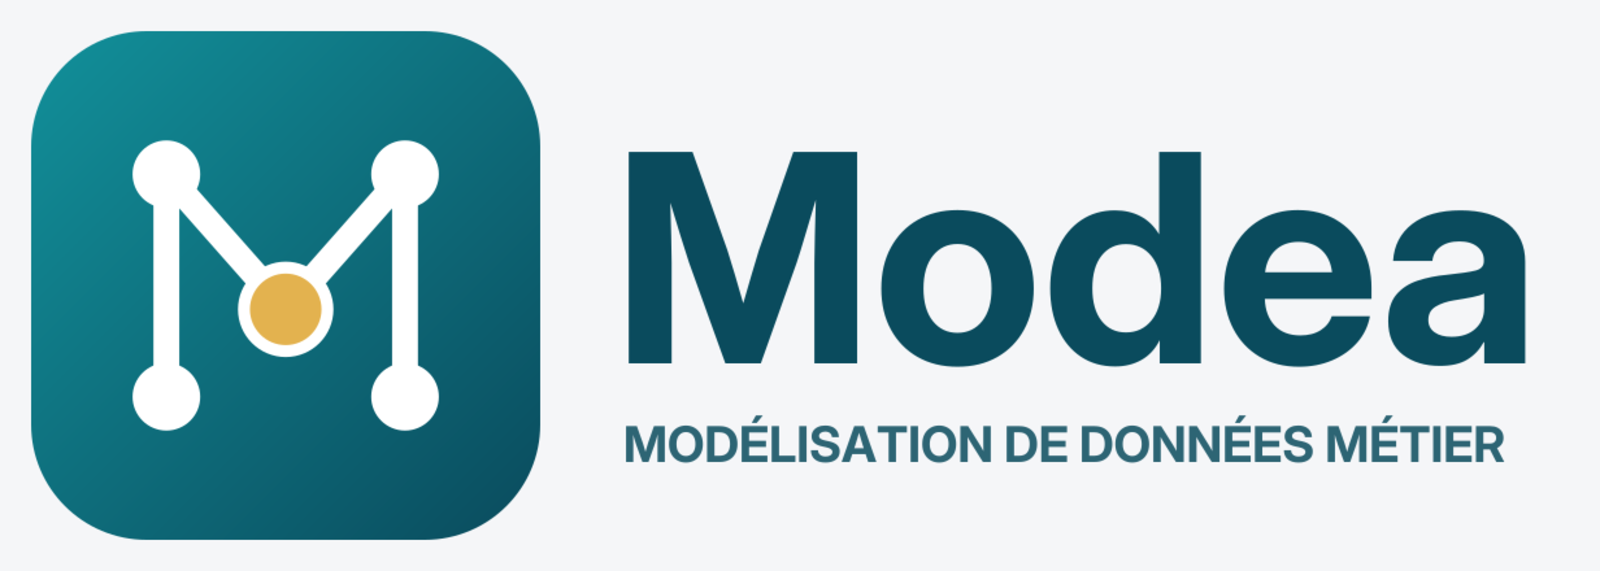
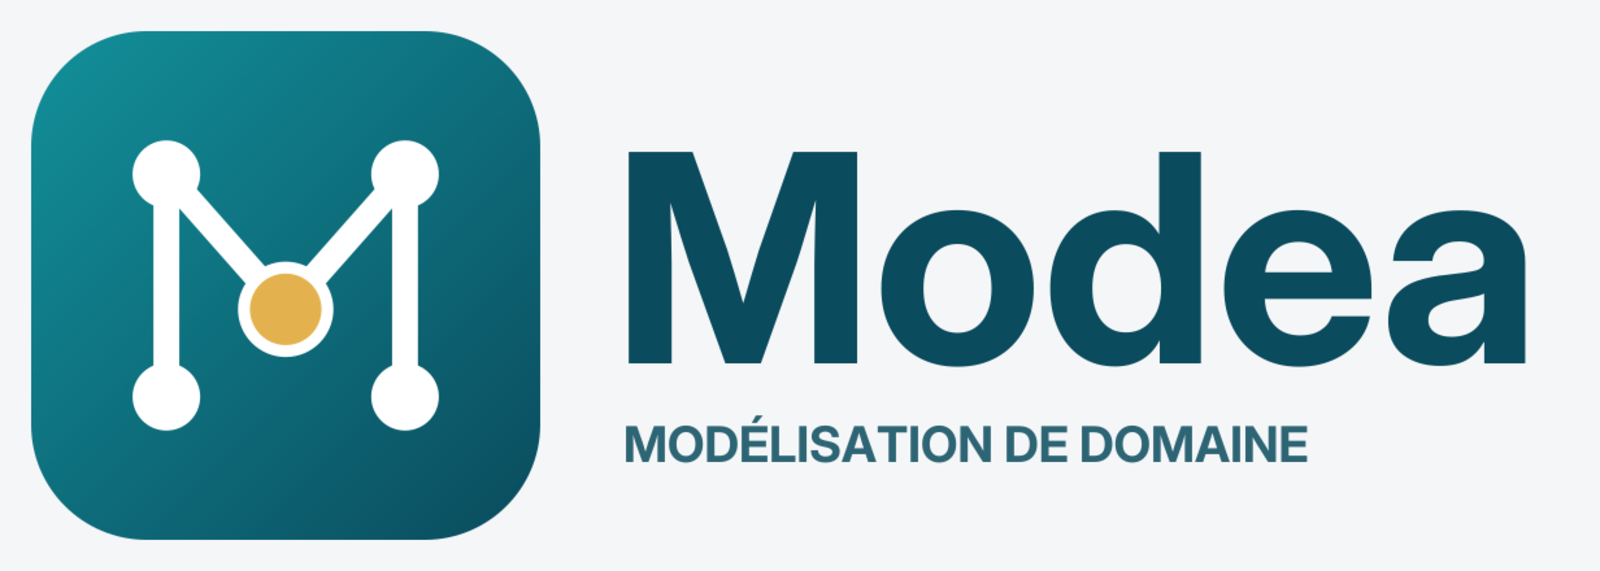
Repositionne Modea en "modelisation de domaine" et ajoute l'exemple moto (v0.6.3)
- nouveau sous-titre dans l'en-tete, le titre, le logo, le README et la doc
- modele d'exemple moto (scripts/generate_sample_moto_db.py) et illustration
- README illustre (capture de l'editeur, illustration moto)
- version 0.6.3 (notes de version, meta Porta[b]l Apps)

Changed region(s): [[0.7188, 0.7443, 0.9375, 0.8336]]

diff --git a/modea-editeur.html b/modea-editeur.html
@@ -3,14 +3,14 @@
 <head>
 <meta charset="utf-8">
 <meta name="viewport" content="width=device-width, initial-scale=1">
-<title>Modea · éditeur de modèle métier</title>
+<title>Modea · modélisation de domaine</title>
 <meta name="application-name" content="Modea">
-<meta name="description" content="Éditeur de modèle de donnée métier : objets, propriétés et relations, diagramme et analyse d'impact, exports RDF/OWL.">
+<meta name="description" content="Éditeur de modélisation de domaine : objets, propriétés et relations, diagramme et analyse d'impact, exports RDF/OWL.">
 <meta name="author" content="casarou">
 <!-- version : à garder alignée sur APP_VERSION (sans le « v », format x.y.z) -->
-<meta name="version" content="0.6.2">
+<meta name="version" content="0.6.3">
 <meta name="portal:category" content="Ingénierie">
-<meta name="portal:tags" content="modèle de données, métamodèle, sqlite, rdf">
+<meta name="portal:tags" content="modélisation de domaine, graphe, métamodèle, sqlite, rdf">
 <meta name="portal:color" content="#0E767F">
[1 lines of base64/hex data omitted]
 <style>
@@ -286,7 +286,7 @@
 <body>
 
 <header>
[2 lines of base64/hex data omitted]
   <div class="filebar">
     <button class="btn" id="btnOpen">Ouvrir…</button>
     <button class="btn" id="btnNew">Nouveau modèle</button>
@@ -907,12 +907,17 @@ const REL_TYPES = ['association','composition','agregation','generalisation'];
 const CARDS = ['0..1','1','0..*','1..*'];
 
 const SCHEMA_VERSION = 6; // à incrémenter ici ET dans metamodele.sql à chaque migration
-const APP_VERSION = 'v0.6.2'; // à incrémenter à chaque commit taggé
+const APP_VERSION = 'v0.6.3'; // à incrémenter à chaque commit taggé
 // Historique des nouveautés affiché au clic sur le badge de version (plus récent en premier) ;
 // à compléter à chaque nouvelle version, en même temps que APP_VERSION et le tag git.
 const CHANGELOG = [
+  { version:'v0.6.3', date:'2026-11-08', items:[
+    "Modea se présente désormais comme un outil de « modélisation de domaine » (objets, propriétés et relations, en graphe) : en-tête, titre de la page, logo et documentation.",
+    "Nouveau jeu d'exemple : un modèle de nomenclature de moto (34 objets, 37 relations) pour découvrir l'outil.",
+    "README illustré d'une capture de l'éditeur et d'une illustration."
+  ]},
   { version:'v0.6.2', date:'2026-11-08', items:[
-    "Modea n'est plus rattaché à un domaine métier particulier : le manuel, les exemples de saisie et le jeu de démonstration utilisent des termes génériques (Produit, Fiche, Document…) au lieu du vocabulaire PLM."
+    "Modea n'est plus rattaché à un domaine métier particulier : le manuel, les exemples de saisie et le jeu de démonstration utilisent des termes génériques (Produit, Fiche, Document…)."
   ]},
   { version:'v0.6.1', date:'2026-11-08', items:[
     "Nouveau logo Modea : un « M » dessiné comme un graphe de nœuds reliés, en vectoriel (net à toutes les tailles). Il remplace le personnage de l'ancienne identité, dans l'en-tête, l'onglet du navigateur et le démonstrateur."

diff --git a/scripts/generate_sample_moto_db.py b/scripts/generate_sample_moto_db.py
@@ -1,0 +1,174 @@
+"""Genere exemple-moto.db : un modele de domaine fictif autour de la nomenclature
+d'une moto (motorisation, partie-cycle, electricite, carrosserie...), pour la demo et les
+captures d'ecran. Construit via les vues saisie_*, comme generate_sample_db.py."""
+import sqlite3
+import pathlib
+
+base = pathlib.Path(__file__).parent.parent
+out_path = base / "exemple-moto.db"
+if out_path.exists():
+    out_path.unlink()
+
+con = sqlite3.connect(out_path)
+con.execute("PRAGMA foreign_keys = ON")
+con.executescript((base / "metamodele.sql").read_text(encoding="utf-8"))
+con.executescript((base / "saisie.sql").read_text(encoding="utf-8"))
+cur = con.cursor()
+run = cur.execute
+
+# --- referentiels ---
+for code, nom in [("10", "Mécanique"), ("20", "Châssis"), ("30", "Électricité"), ("40", "Qualité")]:
+    run("INSERT INTO discipline(code, nom) VALUES (?,?)", (code, nom))
+
+enums = {
+    "Refroidissement": [("AIR", "Air"), ("LIQ", "Liquide"), ("AHU", "Air et huile")],
+    "Norme antipollution": [("E4", "Euro 4"), ("E5", "Euro 5"), ("E5P", "Euro 5+")],
+    "Type de frein": [("DIS", "Disque"), ("TAM", "Tambour")],
+}
+for te, vals in enums.items():
+    for i, (v, lib) in enumerate(vals, start=1):
+        run("INSERT INTO saisie_valeur_enumeree(type_enumere, valeur, libelle, ordre) VALUES (?,?,?,?)", (te, v, lib, i))
+
+for grandeur, symb, lib, ordre in [
+    ("Volume", "cm³", "centimètre cube", 1), ("Volume", "L", "litre", 2),
+    ("Puissance", "kW", "kilowatt", 1), ("Puissance", "ch", "cheval-vapeur", 2),
+    ("Couple", "N·m", "newton-mètre", 1),
+    ("Masse", "kg", "kilogramme", 1), ("Masse", "g", "gramme", 2),
+    ("Longueur", "mm", "millimètre", 1), ("Longueur", "m", "mètre", 2),
+    ("Tension", "V", "volt", 1),
+]:
+    run("INSERT INTO saisie_unite(grandeur, symbole, libelle, ordre) VALUES (?,?,?,?)", (grandeur, symb, lib, ordre))
+
+# --- objets : (nom, nature, domaine, definition, statut) ---
+V, B, O = "valide", "brouillon", "obsolete"
+objets = [
+    ("Moto", "Produit", "Produit", "Véhicule complet vendu au client", V),
+    ("Motorisation", "Ensemble", "Motorisation", "Groupe motopropulseur de la moto", V),
+    ("Moteur", "Composant", "Motorisation", "Bloc moteur bicylindre", V),
+    ("Boîte de vitesses", "Composant", "Motorisation", "Boîte à 6 rapports", V),
+    ("Embrayage", "Composant", "Motorisation", "Embrayage multidisque à bain d'huile", V),
+    ("Échappement", "Composant", "Motorisation", "Ligne d'échappement avec catalyseur", B),
+    ("Carburateur", "Composant", "Motorisation", "Ancien système d'alimentation", O),
+    ("Injection", "Composant", "Motorisation", "Système d'injection électronique", V),
+    ("Partie-cycle", "Ensemble", "Partie-cycle", "Ensemble porteur, suspension et freinage", V),
+    ("Cadre", "Composant", "Partie-cycle", "Cadre treillis en acier", V),
+    ("Fourche", "Composant", "Partie-cycle", "Fourche télescopique inversée", V),
+    ("Bras oscillant", "Composant", "Partie-cycle", "Bras de suspension arrière", V),
+    ("Amortisseur arrière", "Composant", "Partie-cycle", "Amortisseur réglable en précharge", B),
+    ("Roue", "Composant", "Partie-cycle", "Racine de généralisation des roues", V),
+    ("Roue avant", "Composant", "Partie-cycle", "Roue de 17 pouces à l'avant", V),
+    ("Roue arrière", "Composant", "Partie-cycle", "Roue de 17 pouces à l'arrière", V),
+    ("Système de freinage", "Ensemble", "Partie-cycle", "Freins avant et arrière avec ABS", V),
+    ("Disque de frein", "Composant", "Partie-cycle", "Disque flottant ventilé", V),
+    ("Étrier de frein", "Composant", "Partie-cycle", "Étrier à quatre pistons", V),
+    ("Réservoir", "Composant", "Carrosserie", "Réservoir de carburant", V),
+    ("Système électrique", "Ensemble", "Électricité", "Alimentation, commande et éclairage", V),
+    ("Batterie", "Composant", "Électricité", "Batterie 12 V", V),
+    ("Alternateur", "Composant", "Électricité", "Génération de courant", V),
+    ("Calculateur moteur", "Composant", "Électricité", "Unité de contrôle du moteur (ECU)", B),
+    ("Faisceau électrique", "Composant", "Électricité", "Câblage principal", V),
+    ("Phare", "Composant", "Électricité", "Éclairage avant à LED", V),
+    ("Carrosserie", "Ensemble", "Carrosserie", "Habillage et selle", V),
+    ("Selle", "Composant", "Carrosserie", "Selle pilote", V),
+    ("Carénage", "Composant", "Carrosserie", "Carénage avant", B),
+    ("Spécification moteur", "Document", "Qualité", "Cahier des charges du moteur", V),
+    ("Plan de contrôle freinage", "Document", "Qualité", "Contrôles en production du système de freinage", V),
+    ("Homologation Euro 5", "Document", "Qualité", "Dossier d'homologation antipollution", B),
+    ("Chef de projet", "Acteur", "Produit", "Responsable de la gamme", V),
+    ("Fournisseur freinage", "Acteur", "Achats", "Fournisseur des disques et étriers", V),
+]
+for nom, nature, domaine, definition, statut in objets:
+    run("INSERT INTO saisie_objet(nom, domaine, classe, definition, statut) VALUES (?,?,?,?,?)",
+        (nom, domaine, nature, definition, statut))
+
+# --- proprietes ---
+proprietes = [
+    ("Cylindrée", "grandeur", "Volume", "cm³", "Volume balayé par les pistons"),
+    ("Puissance maximale", "grandeur", "Puissance", "kW", "Puissance au régime maximal"),
+    ("Couple maximal", "grandeur", "Couple", "N·m", "Couple au régime de pointe"),
+    ("Masse", "grandeur", "Masse", "kg", "Masse de l'élément"),
+    ("Diamètre", "grandeur", "Longueur", "mm", "Diamètre nominal"),
+    ("Empattement", "grandeur", "Longueur", "mm", "Distance entre les axes de roues"),
+    ("Capacité", "grandeur", "Volume", "L", "Contenance"),
+    ("Tension nominale", "grandeur", "Tension", "V", "Tension de service"),
+    ("Refroidissement", "enum", None, None, "Mode de refroidissement"),
+    ("Norme antipollution", "enum", None, None, "Norme respectée"),
+    ("Type de frein", "enum", None, None, "Technologie de freinage"),
+    ("Matériau", "texte", None, None, "Matériau principal"),
+    ("Référence fournisseur", "identifiant", None, None, "Référence catalogue fournisseur"),
+    ("Date de diffusion", "date", None, None, "Date de mise à disposition"),
+]
+for nom, type_, grandeur, unite, desc in proprietes:
+    te = nom if type_ == "enum" else None
+    run("INSERT INTO saisie_propriete(nom, type, multivalue, type_enumere, grandeur, unite, description) VALUES (?,?,0,?,?,?,?)",
+        (nom, type_, te, grandeur, unite, desc))
+
+for propriete, type_, valeur, message in [
+    ("Référence fournisseur", "regex", r"^[A-Z0-9]{2,}-[A-Z0-9]+$", "Format attendu : PREFIXE-REFERENCE"),
+    ("Masse", "min", "0", None),
+    ("Cylindrée", "min", "50", None),
+    ("Tension nominale", "max", "48", "Au-delà de 48 V, revoir la sécurité électrique"),
+]:
+    run("INSERT INTO saisie_contrainte(propriete, type, valeur, message) VALUES (?,?,?,?)", (propriete, type_, valeur, message))
+
+# --- applicabilite : (objet, propriete, obligatoire, discipline) ---
+appl = [
+    ("Moteur", "Cylindrée", 1, "10"), ("Moteur", "Puissance maximale", 1, "10"), ("Moteur", "Couple maximal", 1, "10"),
+    ("Moteur", "Refroidissement", 1, "10"), ("Moteur", "Norme antipollution", 1, "40"), ("Moteur", "Masse", 0, "10"),
+    ("Boîte de vitesses", "Masse", 0, "10"), ("Boîte de vitesses", "Référence fournisseur", 1, None),
+    ("Échappement", "Norme antipollution", 1, "40"), ("Échappement", "Matériau", 0, "10"),
+    ("Cadre", "Matériau", 1, "20"), ("Cadre", "Masse", 1, "20"), ("Cadre", "Empattement", 1, "20"),
+    ("Fourche", "Diamètre", 1, "20"), ("Fourche", "Référence fournisseur", 0, None),
+    ("Roue", "Diamètre", 1, "20"), ("Roue", "Masse", 0, "20"),
+    ("Disque de frein", "Diamètre", 1, "20"), ("Disque de frein", "Matériau", 0, "20"), ("Disque de frein", "Référence fournisseur", 1, None),
+    ("Étrier de frein", "Type de frein", 1, "20"), ("Étrier de frein", "Référence fournisseur", 1, None),
+    ("Réservoir", "Capacité", 1, "20"), ("Réservoir", "Matériau", 0, "20"),
+    ("Batterie", "Tension nominale", 1, "30"), ("Batterie", "Référence fournisseur", 0, None),
+    ("Alternateur", "Tension nominale", 1, "30"), ("Alternateur", "Puissance maximale", 0, "30"),
+    ("Calculateur moteur", "Tension nominale", 1, "30"),
+    ("Spécification moteur", "Date de diffusion", 1, "40"), ("Homologation Euro 5", "Date de diffusion", 0, "40"),
+]
+for objet, propriete, obligatoire, discipline in appl:
+    run("INSERT INTO saisie_applicabilite(objet, propriete, obligatoire, discipline) VALUES (?,?,?,?)",
+        (objet, propriete, obligatoire, discipline))
+
+# --- relations : (source, verbe, type, cible, card_source, card_cible) ---
+def comp(s, c, cc="1"): return (s, "contient", "composition", c, "1", cc)
+rels = [
+    comp("Moto", "Motorisation"), comp("Moto", "Partie-cycle"), comp("Moto", "Système électrique"), comp("Moto", "Carrosserie"),
+    comp("Motorisation", "Moteur"), comp("Motorisation", "Boîte de vitesses"), comp("Motorisation", "Embrayage"),
+    comp("Motorisation", "Échappement"),
+    ("Moteur", "est alimenté par", "association", "Injection", "1", "1"),
+    ("Moteur", "était alimenté par", "association", "Carburateur", "0..*", "0..1"),
+    comp("Partie-cycle", "Cadre"), comp("Partie-cycle", "Fourche"), comp("Partie-cycle", "Bras oscillant"),
+    comp("Partie-cycle", "Amortisseur arrière"), comp("Partie-cycle", "Système de freinage"),
+    comp("Partie-cycle", "Roue avant"), comp("Partie-cycle", "Roue arrière"),
+    ("Roue avant", "hérite de", "generalisation", "Roue", None, None),
+    ("Roue arrière", "hérite de", "generalisation", "Roue", None, None),
+    comp("Système de freinage", "Disque de frein", "1..*"), comp("Système de freinage", "Étrier de frein", "1..*"),
+    ("Étrier de frein", "agit sur", "association", "Disque de frein", "1", "1"),
+    comp("Système électrique", "Batterie"), comp("Système électrique", "Alternateur"),
+    comp("Système électrique", "Faisceau électrique"), comp("Système électrique", "Phare"),
+    ("Calculateur moteur", "pilote", "association", "Injection", "1", "1"),
+    ("Alternateur", "recharge", "association", "Batterie", "1", "1"),
+    comp("Carrosserie", "Selle"), comp("Carrosserie", "Carénage"),
+    ("Réservoir", "est fixé sur", "association", "Cadre", "1", "1"),
+    ("Spécification moteur", "décrit", "association", "Moteur", "0..*", "1"),
+    ("Plan de contrôle freinage", "contrôle", "association", "Système de freinage", "0..*", "1"),
+    ("Homologation Euro 5", "concerne", "association", "Échappement", "0..*", "1"),
+    ("Chef de projet", "responsable de", "association", "Moto", "1", "0..*"),
+    ("Fournisseur freinage", "fournit", "association", "Disque de frein", "1", "0..*"),
+    ("Fournisseur freinage", "fournit", "association", "Étrier de frein", "1", "0..*"),
+]
+for s, nom, type_, c, cs, cc in rels:
+    if cs and cc:
+        run("INSERT INTO saisie_relation(source, relation, type, cible, card_source, card_cible) VALUES (?,?,?,?,?,?)", (s, nom, type_, c, cs, cc))
+    else:
+        run("INSERT INTO saisie_relation(source, relation, type, cible) VALUES (?,?,?,?)", (s, nom, type_, c))
+
+con.commit()
+for label, table in [("objets", "objet"), ("proprietes", "propriete"), ("applicabilites", "applicabilite"),
+                     ("relations", "relation"), ("domaines", "domaine"), ("natures", "classe_objet")]:
+    print(f"{label}: {cur.execute(f'SELECT COUNT(*) FROM {table}').fetchone()[0]}")
+con.close()
+print(f"\n{out_path.name} genere avec succes.")

diff --git a/README.md b/README.md
@@ -2,17 +2,23 @@
 
 # Modea
 
-**Décrire ses données métier avec des listes déroulantes, et voir le schéma se dessiner.**
+**Décrire son domaine avec des listes déroulantes, et voir le graphe se dessiner.**
 
-Modea est un éditeur de modèle de donnée métier : on décrit les objets d'un métier, leurs propriétés et leurs liens en choisissant dans des listes, et le diagramme se met à jour en direct. Il tient dans **un seul fichier HTML**, sans serveur, et fonctionne **hors-ligne** : un double-clic suffit.
+Modea est un éditeur de modélisation de domaine : on décrit les objets d'un domaine, leurs propriétés et leurs relations en choisissant dans des listes, et le diagramme se met à jour en direct. Il tient dans **un seul fichier HTML**, sans serveur, et fonctionne **hors-ligne** : un double-clic suffit.
 
 > Statut : prototype (version courante : **v0.6**, voir les notes de version dans l'outil, en cliquant sur le badge de version).
+
+<p align="center"><img src="docs/modea-moto.png" alt="Nomenclature d'une moto décrite dans Modea : ensembles, composants et relations" width="860"></p>
+
+<p align="center"><img src="docs/capture-editeur.png" alt="Capture de l'éditeur Modea : saisie guidée à gauche, diagramme du modèle à droite" width="860"></p>
+
+<p align="center"><sub>Le modèle d'exemple « moto » : 34 objets, 14 propriétés, 37 relations (<code>scripts/generate_sample_moto_db.py</code>).</sub></p>
 
 ## Le problème
 
 Mettre à plat les données d'un métier (ses objets, ce qui les décrit, comment ils se relient) se fait souvent dans un tableur, où personne ne voit la structure d'ensemble. Les outils de modélisation dédiés (Modelio, ArchiMate…) sont puissants mais lourds à mettre en place quand il faut simplement *initialiser* un modèle et le faire relire par des métiers.
 
-Modea est né d'un besoin précis : adapter son propre modèle métier tout en gardant sous les yeux les normes de référence.
+Modea est né d'un besoin précis : adapter son propre modèle de domaine tout en gardant sous les yeux les normes de référence.
 
 ## Ce que fait Modea
 
@@ -54,7 +60,7 @@ Fichiers utiles :
 | `modea-editeur.html` | l'application (page autonome) |
 | `metamodele.sql`, `saisie.sql` | schéma et vues de saisie, à garder synchronisés avec le schéma embarqué dans l'éditeur |
 | `demo-cytoscape.html` | démonstrateur de graphe, ouvre un `.db` en lecture |
-| `scripts/` | `generate_sample_db.py` (base d'exemple), `validate_schema.py`, `inline_vendor.py` |
+| `scripts/` | `generate_sample_moto_db.py` (modèle d'exemple « moto »), `generate_sample_db.py`, `validate_schema.py`, `inline_vendor.py` |
 | `vendor/` | sql.js, Cytoscape et cytoscape-svg, injectés dans les pages par `inline_vendor.py` |
 | `brief-mdm-claude-code.md` | contexte du projet et questions ouvertes |
 

diff --git a/CLAUDE.md b/CLAUDE.md
@@ -1,6 +1,6 @@
 # Modea
 
-Éditeur de modèle de donnée métier (HTML autonome + sql.js, SQLite comme source de vérité). Fichier principal : `modea-editeur.html`. Contexte et questions ouvertes : `brief-mdm-claude-code.md`.
+Éditeur de modélisation de domaine (HTML autonome + sql.js, SQLite comme source de vérité). Fichier principal : `modea-editeur.html`. Contexte et questions ouvertes : `brief-mdm-claude-code.md`.
 
 ## Versions et notes de version (à faire systématiquement, sans attendre qu'on le demande)
 
